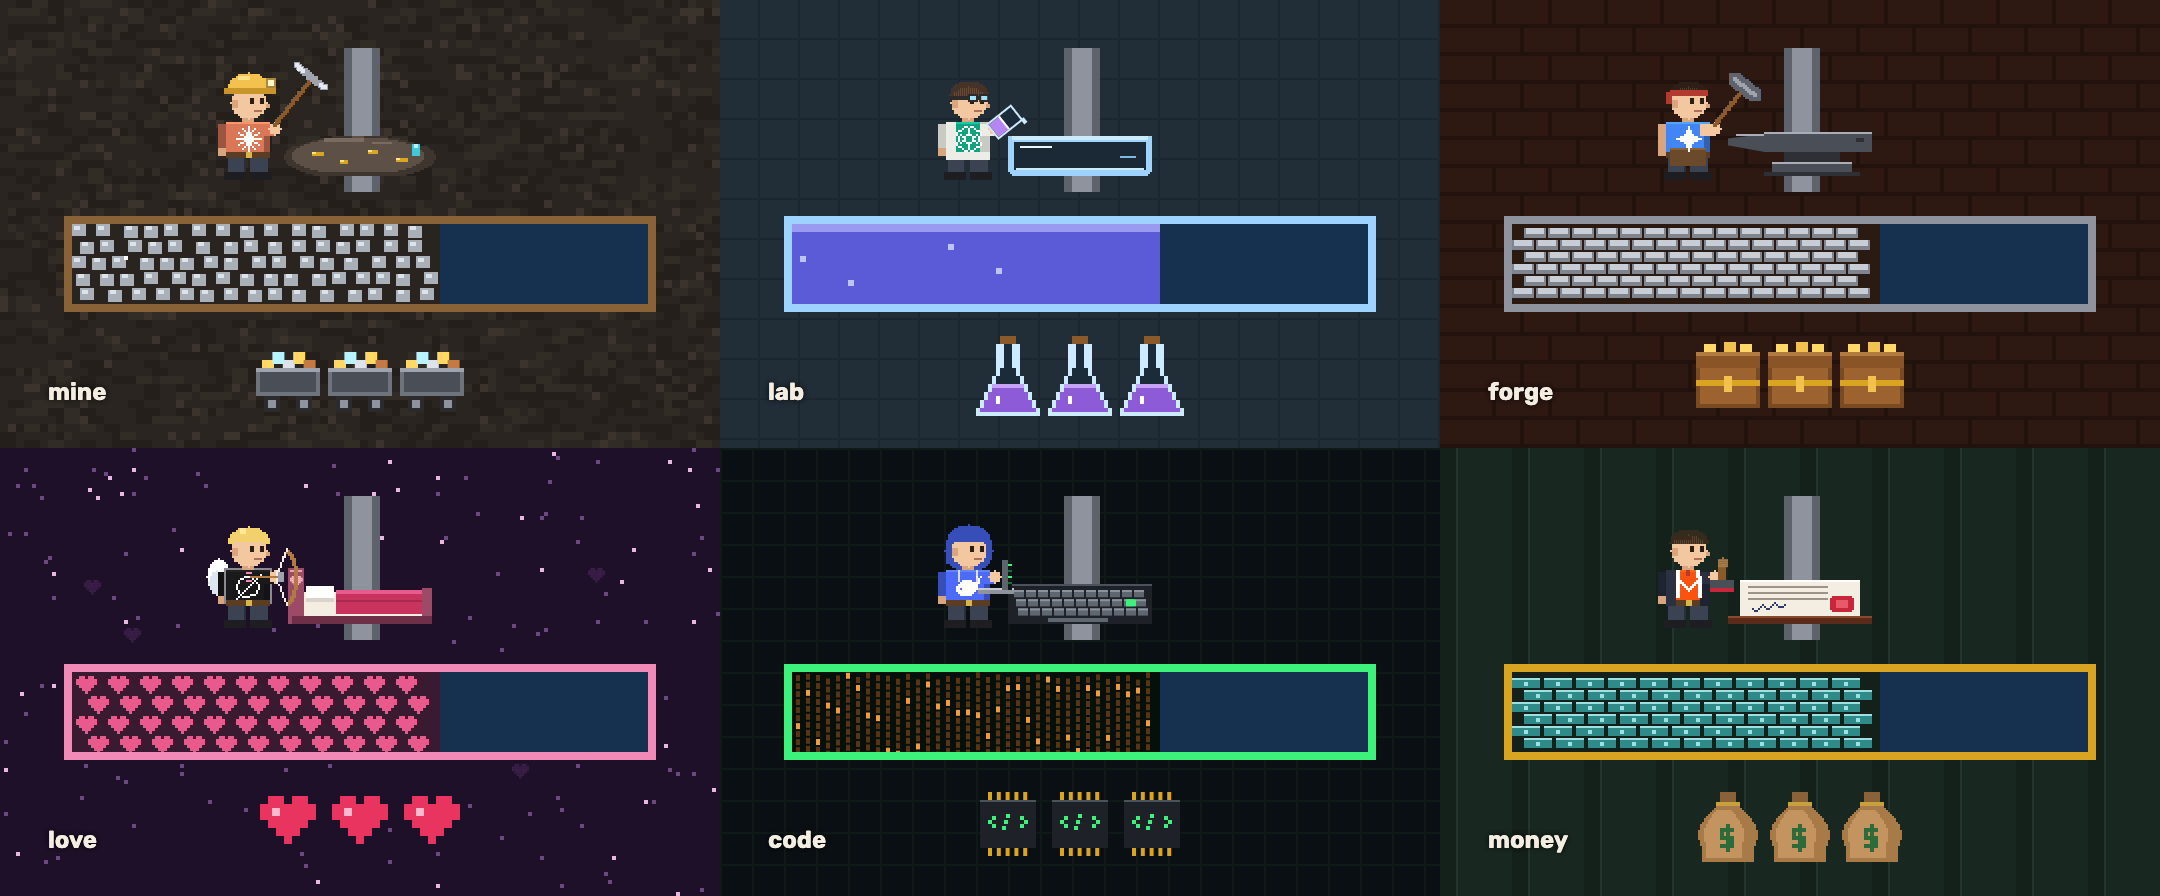
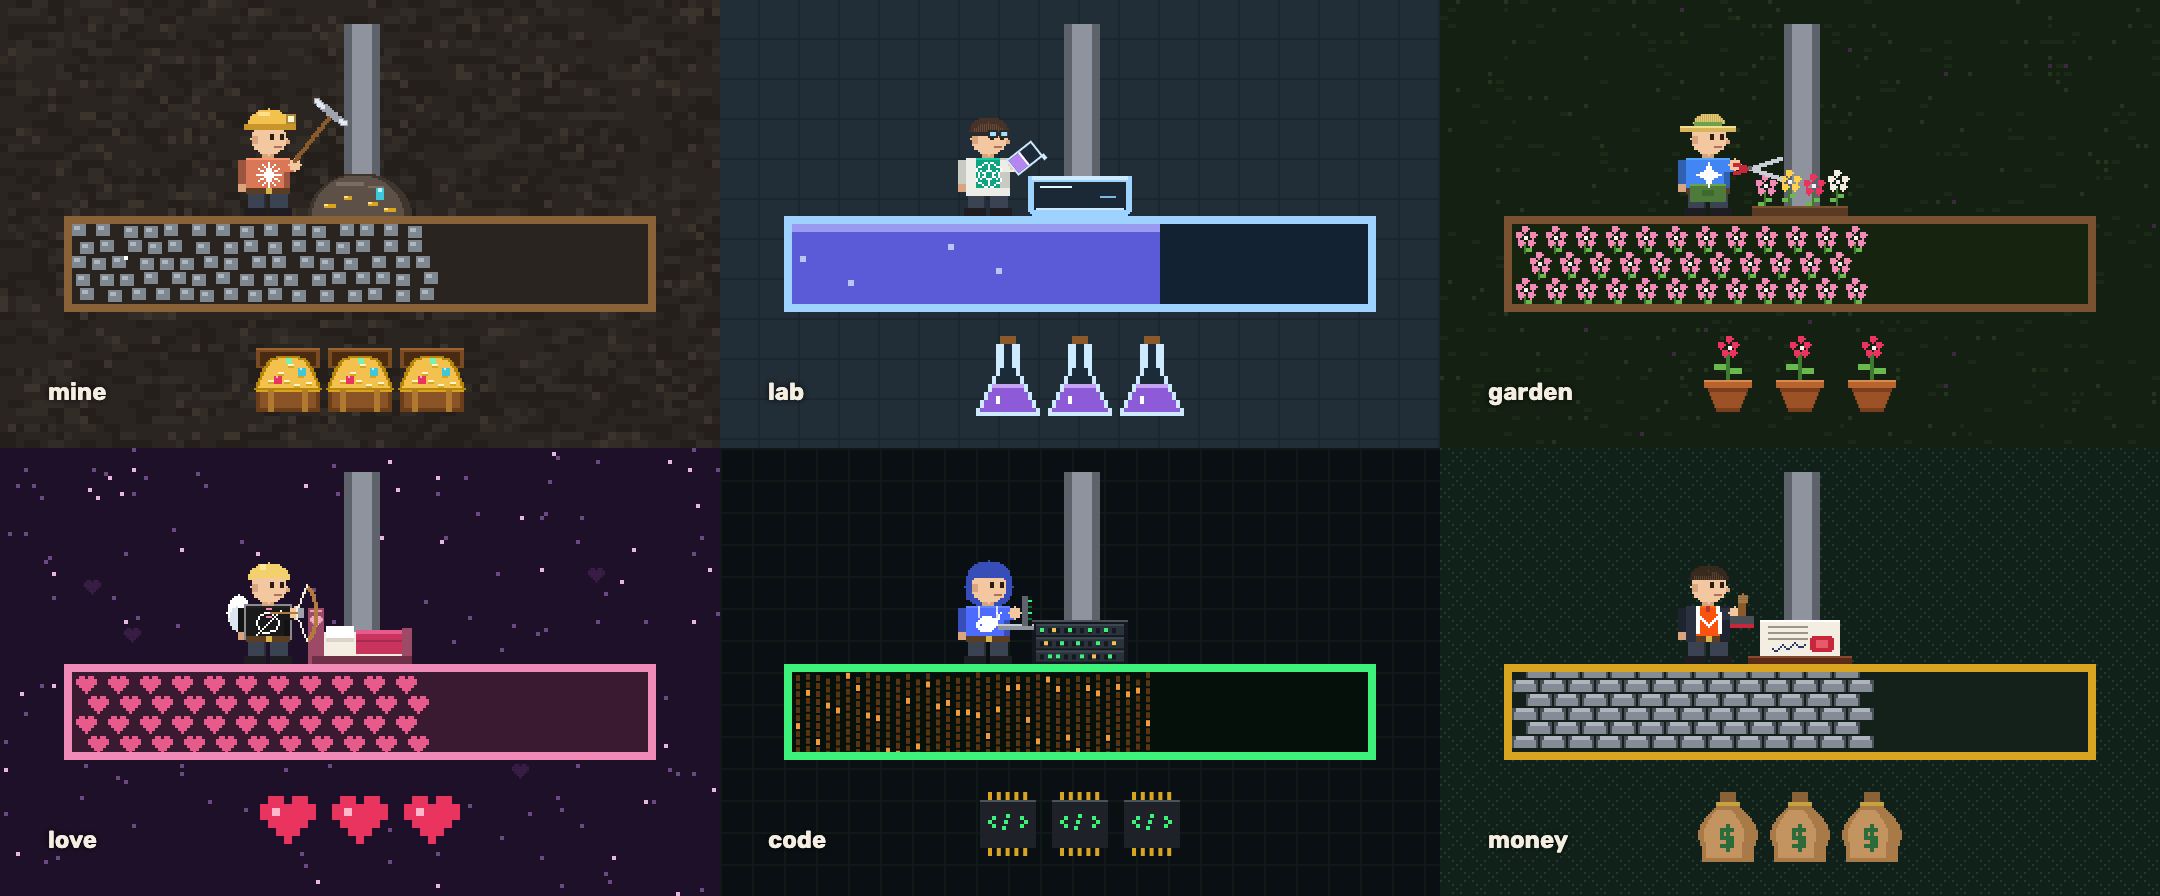
README pictures redrawn: garden and new money theme, plates on tanks, chests

diff --git a/tools/render-docs.js b/tools/render-docs.js
@@ -3,7 +3,7 @@
 import { AGENTS, FUNNELS } from '../src/data.js';
 import { Scene, CW, H } from '../src/scene.js';
 import { THEMES } from '../src/themes.js';
-import { drawStanding, drawPickaxe, drawHammer, drawBeaker, drawBow, drawArrow, drawLaptop, drawStamp } from '../src/sprites.js';
+import { drawStanding, drawPickaxe, drawShears, drawBeaker, drawBow, drawArrow, drawLaptop, drawStamp } from '../src/sprites.js';
 
 const FONT = 'Rubik, system-ui, sans-serif';
 
@@ -43,7 +43,7 @@ function agentsSheet() {
   return c;
 }
 
-// One tile per theme: a working agent and its work piece in the open, a tank, results.
+// One tile per theme: a working agent on the tank's top edge by its work piece, the tank, results.
 function themesSheet() {
   const names = Object.keys(THEMES), K = 4, W = 180, Hh = 112, cols = 3;
   const [c, g] = canvas(cols * W * K, Math.ceil(names.length / cols) * Hh * K);
@@ -52,19 +52,19 @@ function themesSheet() {
     const th = THEMES[name], ox = (i % cols) * W, oy = Math.floor(i / cols) * Hh, r = rng(7 + i);
     g.setTransform(K, 0, 0, K, ox * K, oy * K);
     th.backdrop(g, 0, W, Hh, r);
-    g.fillStyle = '#5E626B'; g.fillRect(86, 12, 9, 36);
-    g.fillStyle = '#8E939D'; g.fillRect(88, 12, 5, 36);
-    th.plate(g, 72, 33, 36, 11);
-    const id = agentsFor[i % agentsFor.length], ax = 52, ay = 17, hx = ax + 16.5, hy = ay + 15;
+    g.fillStyle = '#5E626B'; g.fillRect(86, 6, 9, 48);
+    g.fillStyle = '#8E939D'; g.fillRect(88, 6, 5, 48);
+    th.plate(g, 77, 43, 26, 11);
+    const id = agentsFor[i % agentsFor.length], ax = 57, ay = 26, hx = ax + 16.5, hy = ay + 15;
     drawStanding(g, ax, ay, id, AGENTS[id].color, -1, false, true, th.outfit);
     if (th.tool === 'pickaxe') drawPickaxe(g, hx, hy - 1, -0.9);
-    else if (th.tool === 'hammer') drawHammer(g, hx, hy - 1, -0.9);
+    else if (th.tool === 'shears') drawShears(g, hx, hy + 1, 0.6);
     else if (th.tool === 'beaker') drawBeaker(g, hx, hy, 0.9, '#B585F2');
     else if (th.tool === 'laptop') drawLaptop(g, hx - 3, hy + 2, 0.3);
     else if (th.tool === 'stamp') drawStamp(g, hx - 1, hy + 4, 0.5);
     else { drawBow(g, hx, hy, 0.6); drawArrow(g, hx + 1, hy); }
     g.fillStyle = th.frame; g.fillRect(16, 54, 148, 24);
-    g.fillStyle = '#16314F'; g.fillRect(18, 56, 144, 20);
+    g.fillStyle = th.tankBg; g.fillRect(18, 56, 144, 20);
     g.save(); g.beginPath(); g.rect(18, 56, 92, 20); g.clip();
     th.tank(g, 18, 56, 92, 20, 1, 3, 0, 11 + i);
     g.restore();
